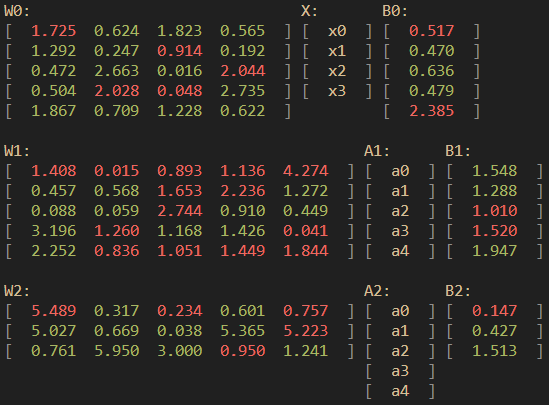
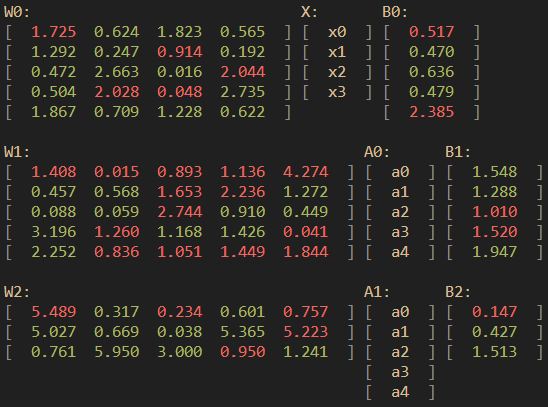
images fix

diff --git a/nn/layer.c b/nn/layer.c
@@ -69,7 +69,7 @@ void lay_print(Layer l, size_t i, size_t prev_size) {
     char abuff[16];
     snprintf(wbuff, sizeof(wbuff), "W%li", i);
     snprintf(bbuff, sizeof(bbuff), "B%li", i);
-    snprintf(abuff, sizeof(abuff), i == 0 ? "X" : "A%li", i);
+    snprintf(abuff, sizeof(abuff), i == 0 ? "X" : "A%li", i-1);
 
     printf("%*s%s:%*s", pad, "", wbuff, (int)l.w.m*7+2, "");
     printf("%s:%*s", abuff, 7 - (i == 0 ? 0 : 1) , "");
